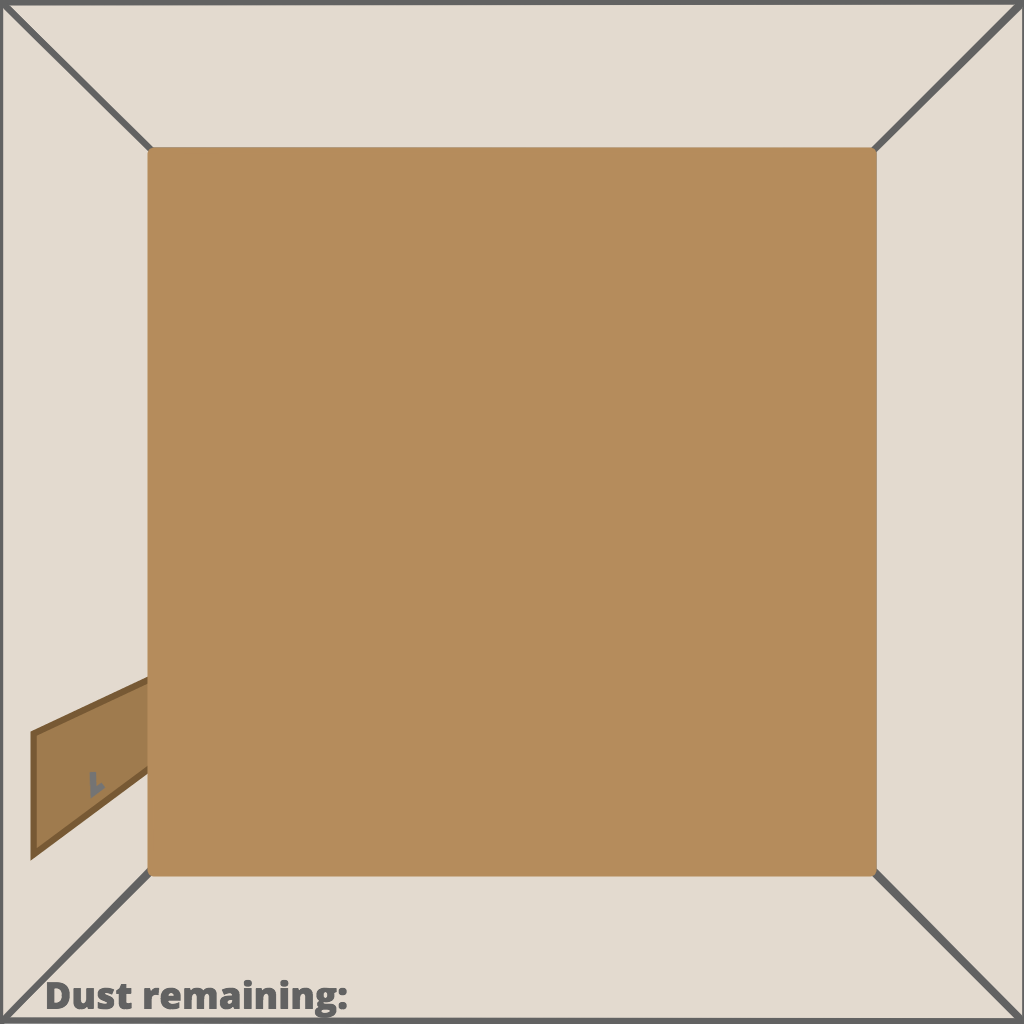
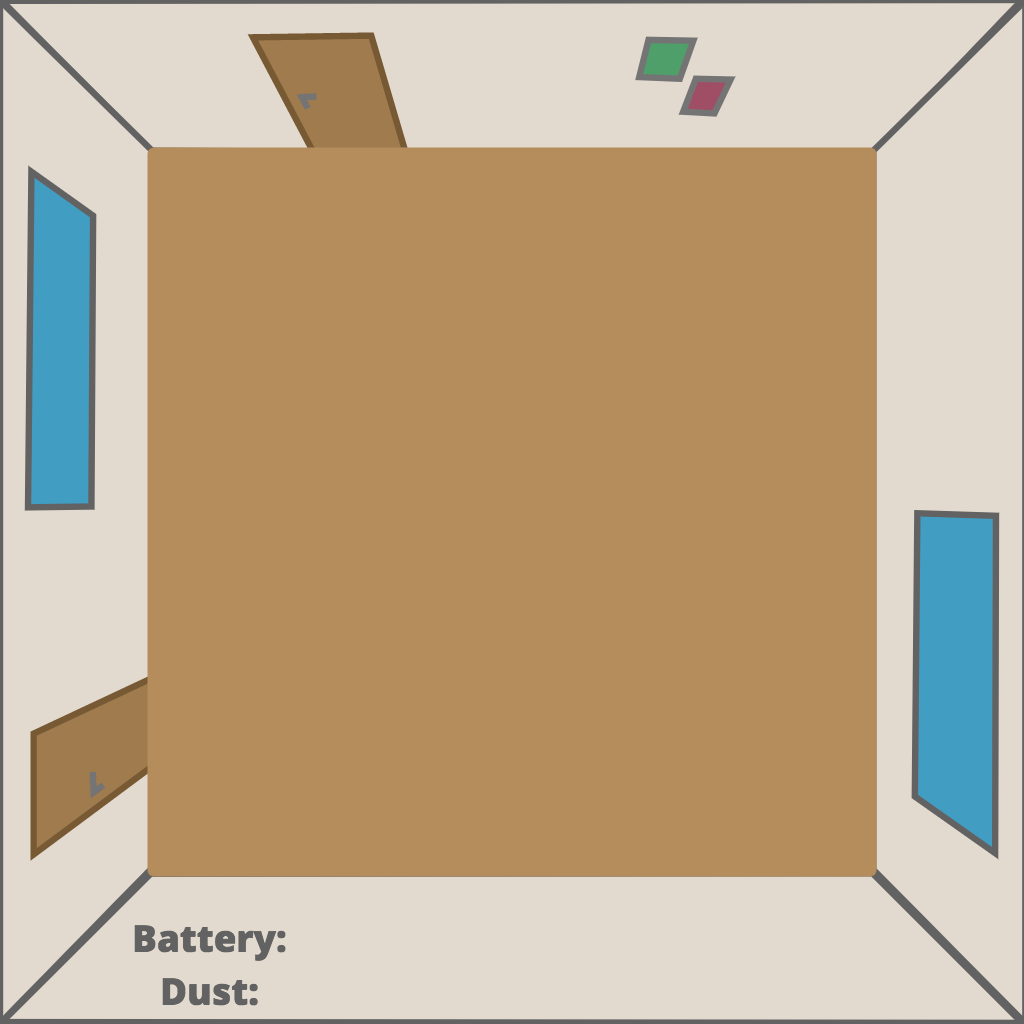
Render battery as images, pimp wall

diff --git a/core/src/main/java/de/cdietze/ld37/core/BoardScreen.java b/core/src/main/java/de/cdietze/ld37/core/BoardScreen.java
@@ -9,7 +9,6 @@ import playn.scene.Layer;
 import playn.scene.Pointer;
 import pythagoras.f.MathUtil;
 import pythagoras.i.Dimension;
-import react.Function;
 import react.RList;
 import react.Slot;
 import tripleplay.ui.Button;
@@ -76,6 +75,10 @@ public class BoardScreen extends Screen {
     wallsLayer.setOrigin(Layer.Origin.CENTER);
     group.addAt(wallsLayer, group.width() * .5f, group.height() * .5f);
 
+    GroupLayer batteryLayer = createBatteryRemainingLayer();
+    batteryLayer.setDepth(8f);
+    group.addAt(batteryLayer, 0.35f, 0.90f);
+
     GroupLayer dustLayer = createDustRemainingLayer();
     dustLayer.setDepth(10f);
     group.addAt(dustLayer, 0.35f, 0.94f);
@@ -87,17 +90,6 @@ public class BoardScreen extends Screen {
     boardLayer.setScale(1f / wallToFloor / 8);
     root
             .layer.addAt(group, offsetX, offsetY);
-
-    root.add(
-            new Group(AxisLayout.vertical()).add(
-                    new Label(state.battery.map(new Function<Integer, String>() {
-                      @Override
-                      public String apply(Integer input) {
-                        return "Battery Remaining: " + input;
-                      }
-                    }))
-
-            ).setConstraint(BorderLayout.EAST));
 
     initWinListener();
     // log.info("screen#wasAdded", "viewSize", plat.graphics().viewSize, "offsetX", offsetX, "offsetY", offsetY, "squareSize", squareSize);
@@ -119,6 +111,27 @@ public class BoardScreen extends Screen {
         for (int i = 0; i < group.children(); ++i) {
           group.childAt(i).setTx(dustDist * i);
           group.childAt(i).setTy((i % 2) * -0.01f);
+        }
+      }
+    });
+    return group;
+  }
+
+  private GroupLayer createBatteryRemainingLayer() {
+    final GroupLayer group = new GroupLayer();
+    final float itemDist = .5f / 15;
+    state.battery.connectNotify(new Slot<Integer>() {
+      @Override
+      public void onEmit(Integer dustRemaining) {
+        while (group.children() > dustRemaining) group.childAt(group.children() - 1).close();
+        while (group.children() < dustRemaining) {
+          final ImageLayer layer = new ImageLayer(game.images.battery);
+          layer.setScale(0.05f / 128f);
+          //layer.setSize(0.05f, 0.05f);
+          group.add(layer);
+        }
+        for (int i = 0; i < group.children(); ++i) {
+          group.childAt(i).setTx(itemDist * i);
         }
       }
     });

diff --git a/core/src/main/java/de/cdietze/ld37/core/ImageLoader.java b/core/src/main/java/de/cdietze/ld37/core/ImageLoader.java
@@ -22,6 +22,7 @@ public class ImageLoader {
     public final Image cable = plat.assets().getImage("images/cable.png");
     public final Image lint = plat.assets().getImage("images/lint.png");
     public final Image walls = plat.assets().getImage("images/walls.png");
+    public final Image battery = plat.assets().getImage("images/battery.png");
     public final List<Image> dustList = ImmutableList.of(
             plat.assets().getImage("images/dust1.png"),
             plat.assets().getImage("images/dust2.png"),
